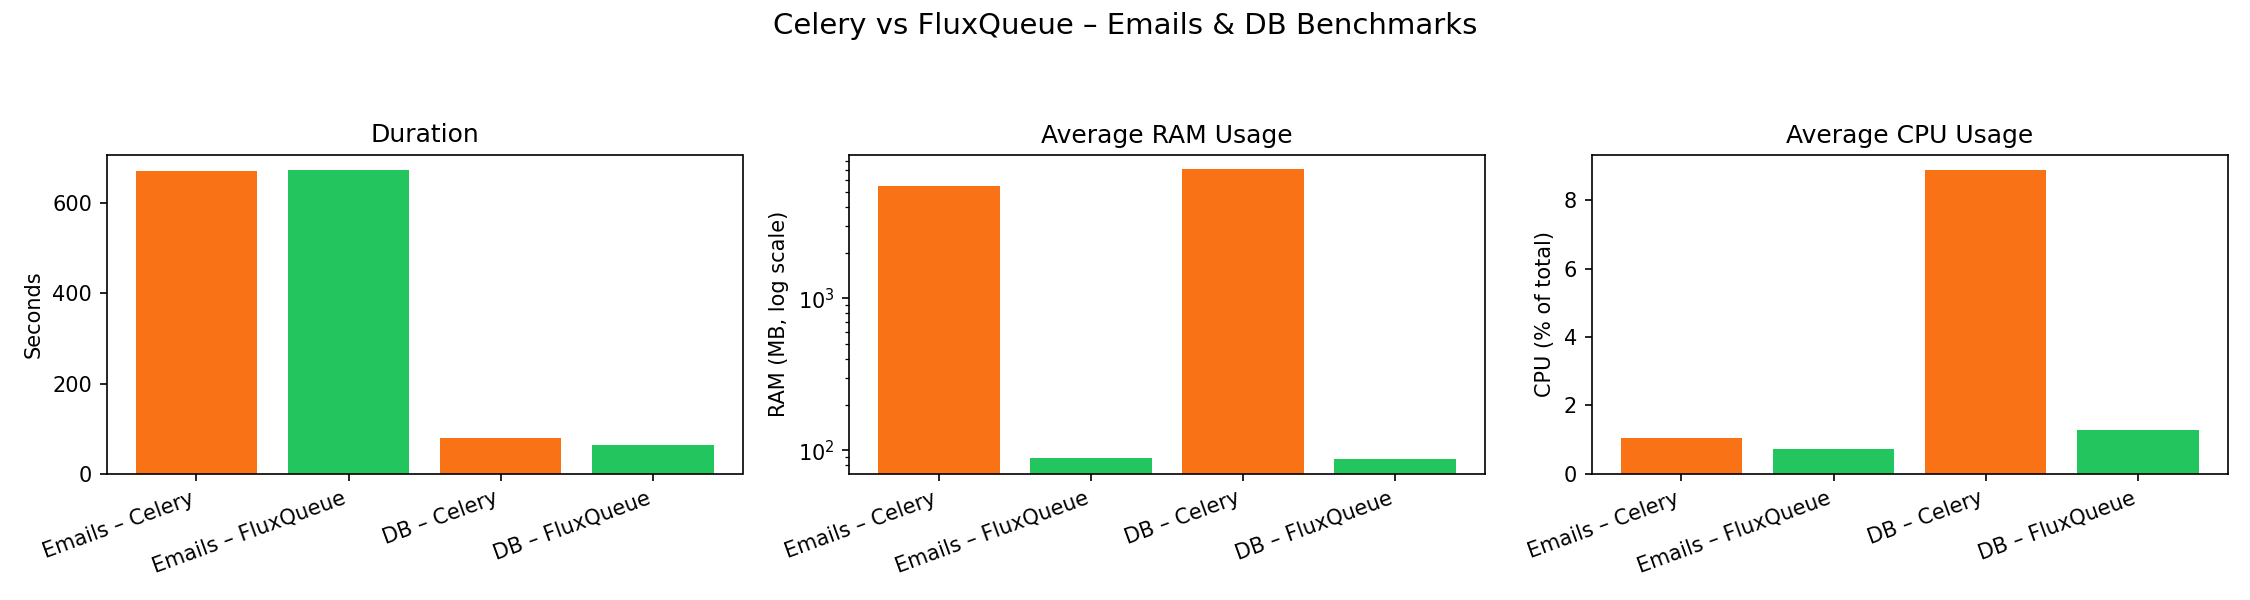
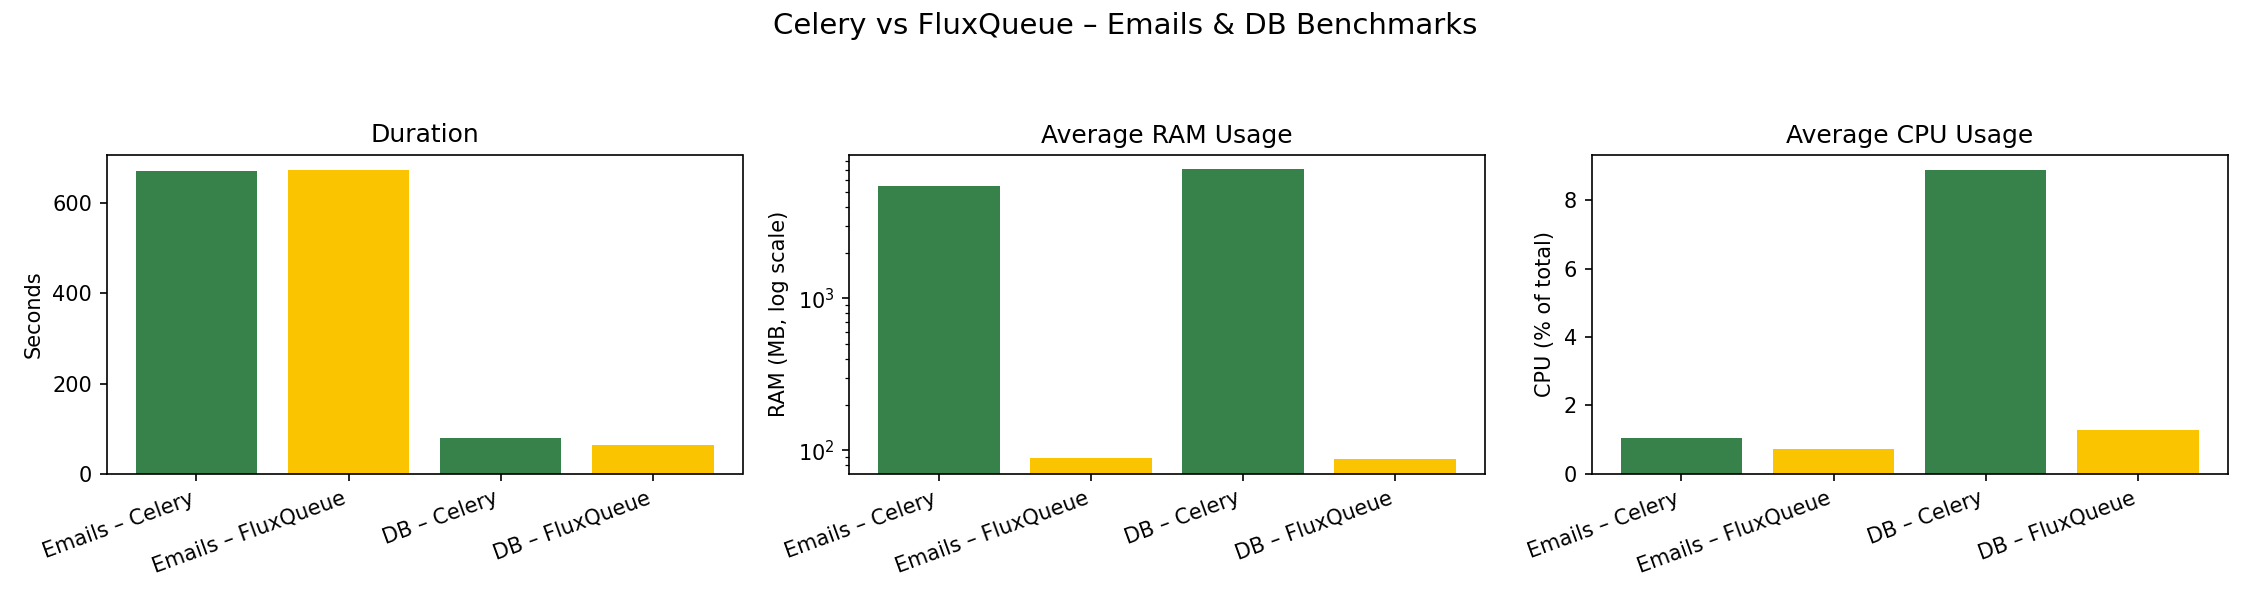
Add charts

Changed region(s): [[0.3733, 0.27, 0.6533, 0.81], [0.0622, 0.27, 0.3422, 0.81], [0.7156, 0.27, 0.9956, 0.81]]

diff --git a/scripts/plot_benchmarks.py b/scripts/plot_benchmarks.py
@@ -1,95 +1,7 @@
 import matplotlib.pyplot as plt
 
 
-def plot_email_benchmarks(output_prefix: str = "emails"):
-    """
-    Plot duration, RAM and CPU usage for the email benchmarks.
-    """
-    labels = ["Celery", "FluxQueue (1 worker)", "FluxQueue (75 workers)"]
-
-    # Data from README
-    duration = [672.939, 673.882, 52.856]  # seconds
-    ram_mb = [5487.89, 88.27, 4615.41]  # MB
-    cpu_pct = [1.05, 0.72, 4.84]  # % of total CPU
-
-    x = range(len(labels))
-
-    # Duration
-    plt.figure(figsize=(8, 5))
-    plt.bar(x, duration, color=["#f97316", "#22c55e", "#16a34a"])
-    plt.xticks(x, labels, rotation=15, ha="right")
-    plt.ylabel("Duration (seconds)")
-    plt.title("Email Benchmark – Duration")
-    plt.tight_layout()
-    plt.savefig(f"{output_prefix}_duration.png", dpi=150)
-    plt.close()
-
-    # RAM
-    plt.figure(figsize=(8, 5))
-    plt.bar(x, ram_mb, color=["#f97316", "#22c55e", "#16a34a"])
-    plt.xticks(x, labels, rotation=15, ha="right")
-    plt.ylabel("Average RAM Usage (MB)")
-    plt.title("Email Benchmark – RAM Usage")
-    plt.tight_layout()
-    plt.savefig(f"{output_prefix}_ram.png", dpi=150)
-    plt.close()
-
-    # CPU
-    plt.figure(figsize=(8, 5))
-    plt.bar(x, cpu_pct, color=["#f97316", "#22c55e", "#16a34a"])
-    plt.xticks(x, labels, rotation=15, ha="right")
-    plt.ylabel("Average CPU Usage (% of total CPU)")
-    plt.title("Email Benchmark – CPU Usage")
-    plt.tight_layout()
-    plt.savefig(f"{output_prefix}_cpu.png", dpi=150)
-    plt.close()
-
-
-def plot_db_benchmarks(output_prefix: str = "db"):
-    """
-    Plot duration, RAM and CPU usage for the DB query benchmarks.
-    """
-    labels = ["Celery", "FluxQueue"]
-
-    # Data from README
-    duration = [78.547, 63.110]  # seconds
-    ram_mb = [7046.54, 87.41]  # MB
-    cpu_pct = [8.88, 1.27]  # % of total CPU
-
-    x = range(len(labels))
-
-    # Duration
-    plt.figure(figsize=(6, 4))
-    plt.bar(x, duration, color=["#f97316", "#22c55e"])
-    plt.xticks(x, labels)
-    plt.ylabel("Duration (seconds)")
-    plt.title("DB Benchmark – Duration")
-    plt.tight_layout()
-    plt.savefig(f"{output_prefix}_duration.png", dpi=150)
-    plt.close()
-
-    # RAM
-    plt.figure(figsize=(6, 4))
-    plt.bar(x, ram_mb, color=["#f97316", "#22c55e"])
-    plt.xticks(x, labels)
-    plt.ylabel("Average RAM Usage (MB)")
-    plt.title("DB Benchmark – RAM Usage")
-    plt.tight_layout()
-    plt.savefig(f"{output_prefix}_ram.png", dpi=150)
-    plt.close()
-
-    # CPU
-    plt.figure(figsize=(6, 4))
-    plt.bar(x, cpu_pct, color=["#f97316", "#22c55e"])
-    plt.xticks(x, labels)
-    plt.ylabel("Average CPU Usage (% of total CPU)")
-    plt.title("DB Benchmark – CPU Usage")
-    plt.tight_layout()
-    plt.savefig(f"{output_prefix}_cpu.png", dpi=150)
-    plt.close()
-
-
-def plot_combined(output_path: str = "combined_overview.png"):
+def plot_combined(output_path: str = "public/combined_overview.png"):
     """
     Single figure comparing Celery vs FluxQueue across both benchmarks
     (emails + DB) for duration, RAM and CPU.
@@ -112,13 +24,16 @@ def plot_combined(output_path: str = "combined_overview.png"):
 
     x = range(len(labels))
 
+    celery_color = "#37814A"  # Celery green
+    flux_color = "#fac500ff"  # FluxQueue yellow
+
     fig, axes = plt.subplots(1, 3, figsize=(15, 4))
 
     # Duration
     axes[0].bar(
         x,
         duration,
-        color=["#f97316", "#22c55e", "#f97316", "#22c55e"],
+        color=[celery_color, flux_color, celery_color, flux_color],
     )
     axes[0].set_xticks(x)
     axes[0].set_xticklabels(labels, rotation=20, ha="right")
@@ -129,7 +44,7 @@ def plot_combined(output_path: str = "combined_overview.png"):
     axes[1].bar(
         x,
         ram_mb,
-        color=["#f97316", "#22c55e", "#f97316", "#22c55e"],
+        color=[celery_color, flux_color, celery_color, flux_color],
     )
     axes[1].set_xticks(x)
     axes[1].set_xticklabels(labels, rotation=20, ha="right")
@@ -141,7 +56,7 @@ def plot_combined(output_path: str = "combined_overview.png"):
     axes[2].bar(
         x,
         cpu_pct,
-        color=["#f97316", "#22c55e", "#f97316", "#22c55e"],
+        color=[celery_color, flux_color, celery_color, flux_color],
     )
     axes[2].set_xticks(x)
     axes[2].set_xticklabels(labels, rotation=20, ha="right")
@@ -154,10 +69,87 @@ def plot_combined(output_path: str = "combined_overview.png"):
     plt.close(fig)
 
 
+def plot_email_time_and_ram(output_path: str = "public/emails_overview.png"):
+    """
+    Single figure showing duration and RAM usage for:
+    - Celery (75 processes)
+    - FluxQueue (1 worker)
+    - FluxQueue (75 workers)
+    """
+    labels = ["Celery", "FluxQueue (1 worker)", "FluxQueue (75 workers)"]
+    celery_color = "#37814A"
+    flux_color = "#fac500ff"
+
+    # Data from README (emails benchmark)
+    duration = [672.939, 673.882, 52.856]  # seconds
+    ram_mb = [5487.89, 88.27, 4615.41]  # MB
+
+    x = range(len(labels))
+
+    fig, axes = plt.subplots(1, 2, figsize=(10, 4))
+
+    # Duration
+    axes[0].bar(x, duration, color=[celery_color, flux_color, flux_color])
+    axes[0].set_xticks(x)
+    axes[0].set_xticklabels(labels, rotation=20, ha="right")
+    axes[0].set_ylabel("Seconds")
+    axes[0].set_title("Email Benchmark – Duration")
+
+    # RAM (log scale to show big differences)
+    axes[1].bar(x, ram_mb, color=[celery_color, flux_color, flux_color])
+    axes[1].set_xticks(x)
+    axes[1].set_xticklabels(labels, rotation=20, ha="right")
+    axes[1].set_ylabel("RAM (MB, log scale)")
+    axes[1].set_yscale("log")
+    axes[1].set_title("Email Benchmark – RAM Usage")
+
+    fig.tight_layout()
+    fig.savefig(output_path, dpi=150)
+    plt.close(fig)
+
+
+def plot_db_time_and_ram(output_path: str = "public/db_overview.png"):
+    """
+    Single figure showing duration and RAM usage for:
+    - Celery (1 worker, 75 processes)
+    - FluxQueue (1 worker, 75 internal executors)
+    """
+    labels = ["Celery", "FluxQueue (1 worker)"]
+    celery_color = "#37814A"
+    flux_color = "#fac500ff"
+
+    # Data from README (DB benchmark)
+    duration = [78.547, 63.110]  # seconds
+    ram_mb = [7046.54, 87.41]  # MB
+
+    x = range(len(labels))
+
+    fig, axes = plt.subplots(1, 2, figsize=(8, 4))
+
+    # Duration
+    axes[0].bar(x, duration, color=[celery_color, flux_color])
+    axes[0].set_xticks(x)
+    axes[0].set_xticklabels(labels, rotation=20, ha="right")
+    axes[0].set_ylabel("Seconds")
+    axes[0].set_title("DB Benchmark – Duration")
+
+    # RAM (log scale)
+    axes[1].bar(x, ram_mb, color=[celery_color, flux_color])
+    axes[1].set_xticks(x)
+    axes[1].set_xticklabels(labels, rotation=20, ha="right")
+    axes[1].set_ylabel("RAM (MB, log scale)")
+    axes[1].set_yscale("log")
+    axes[1].set_title("DB Benchmark – RAM Usage")
+
+    fig.tight_layout()
+    fig.savefig(output_path, dpi=150)
+    plt.close(fig)
+
+
 def main():
-    plot_email_benchmarks()
-    plot_db_benchmarks()
     plot_combined()
+    plot_email_time_and_ram()
+    plot_db_time_and_ram()
 
 
 if __name__ == "__main__":

diff --git a/README.md b/README.md
@@ -6,6 +6,14 @@ Performance benchmarks comparing FluxQueue and Celery across different workloads
 
 ![Celery vs FluxQueue – Emails & DB Benchmarks](public/combined_overview.png)
 
+### Email overview
+
+![Email Benchmark – Duration & RAM](public/emails_overview.png)
+
+### DB overview
+
+![DB Benchmark – Duration & RAM](public/db_overview.png)
+
 ## Tested scenarios
 
 - [x] Emails
